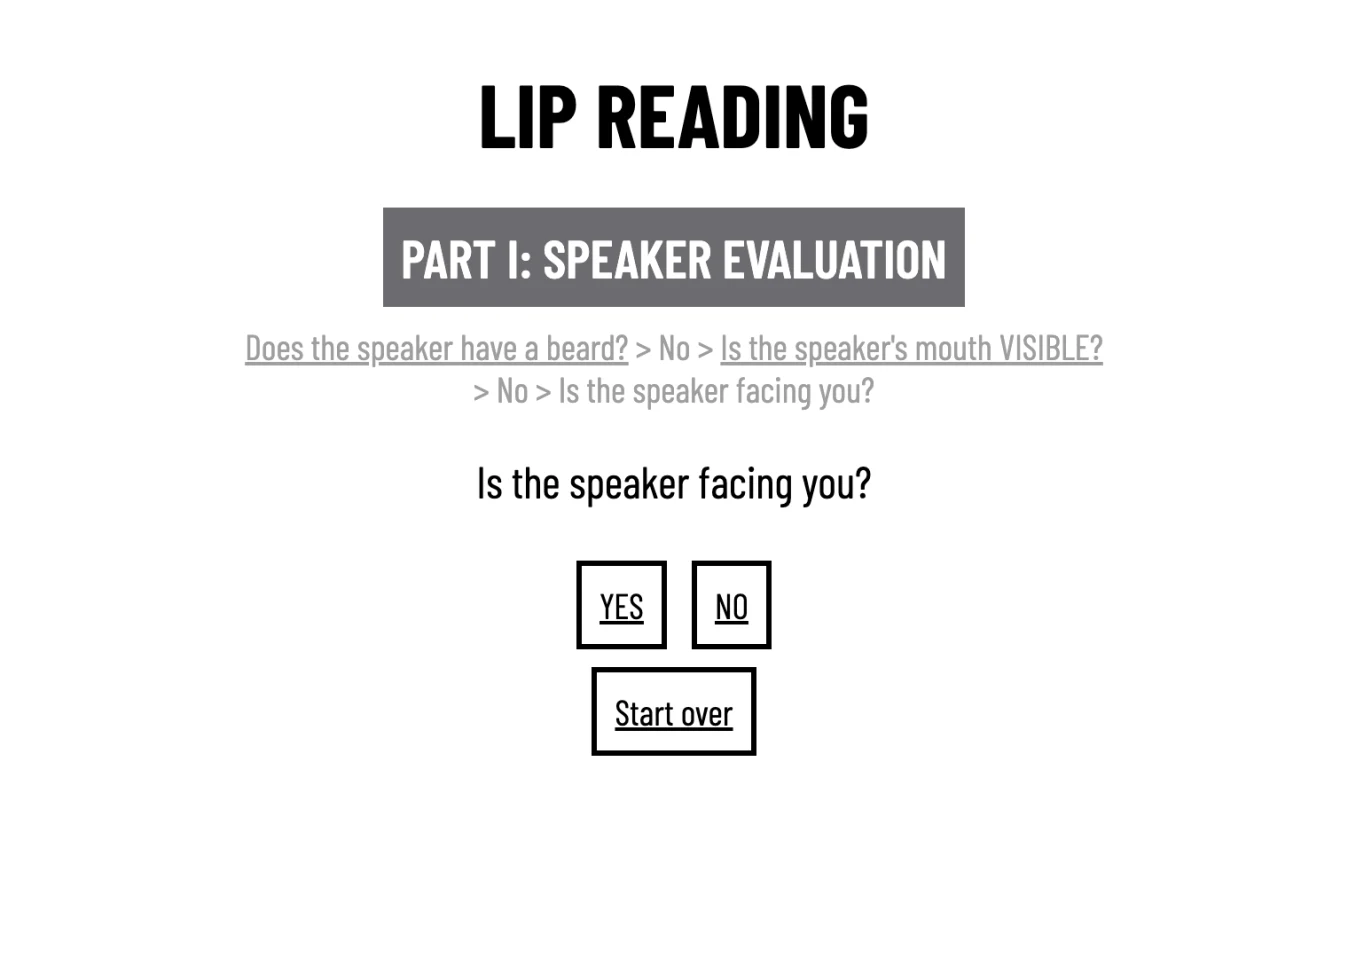
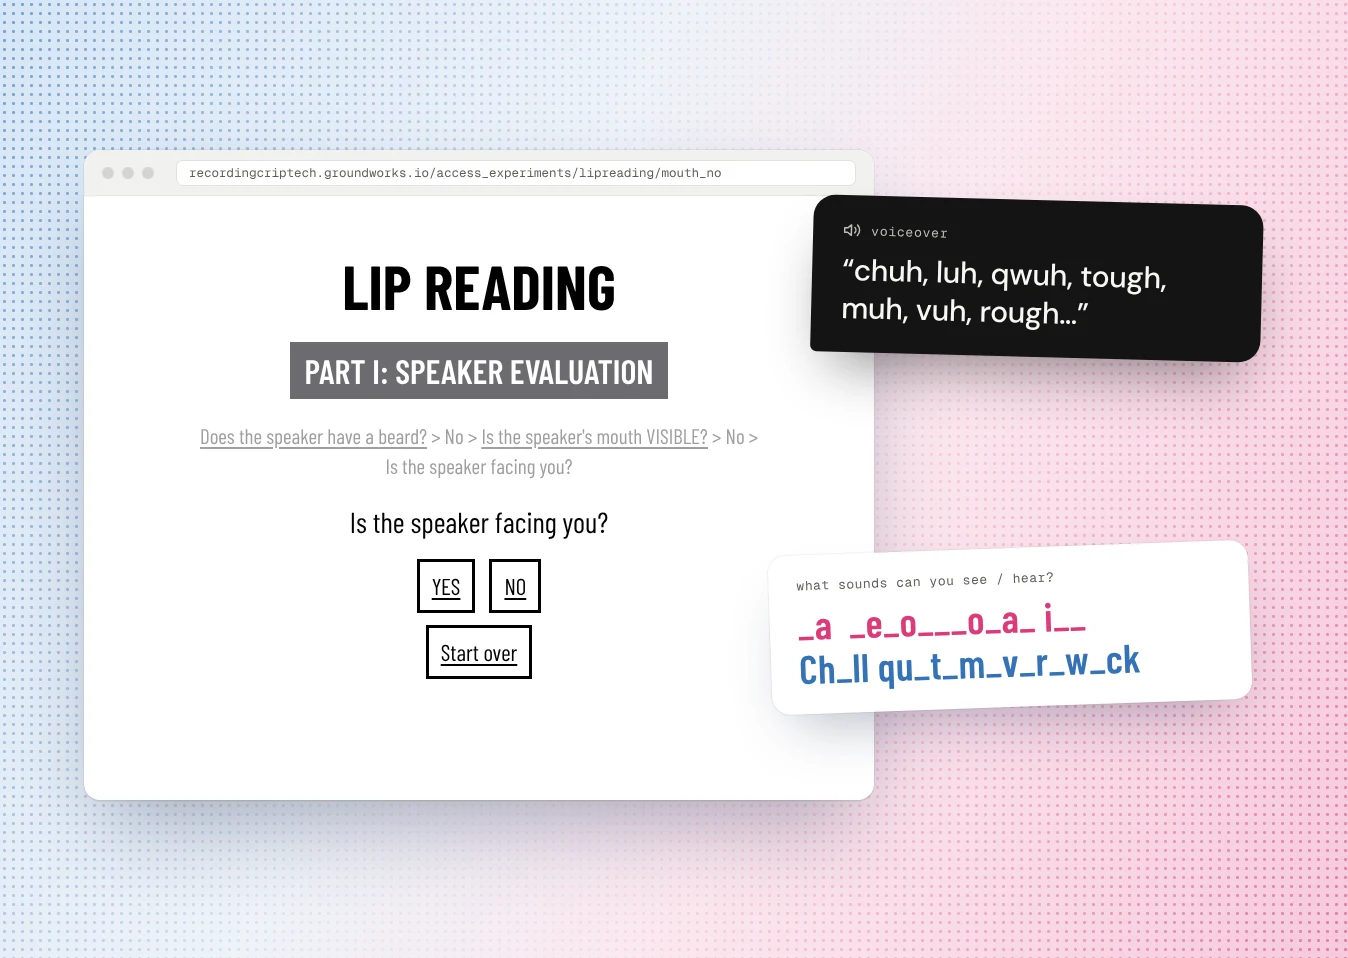
Bring the new graphics into the Lip Reading case study
Five diagrams and a composed cover: the 22-page map, the prototype form
against the shipped links, the breadcrumb in both parts, the four ways
of voicing a sound fragment, and the four audit findings measured.

Checking the figures against the archived build turned up one thing the
write-up had wrong. Start over is on 21 of the 22 pages, not all of
them: face_yes.html, the page offering to rotate the speaker or ask
nicely, has only its breadcrumb. The text and captions now say 21, and
the miss joins the audit section as a fifth finding.

Also worth recording, since the page count looks off against the
folder: the build holds 23 HTML files besides the abandoned form
prototype, but speaker_continue.html is unreachable — nothing links to
it, and face_yes.html goes to hand_no.html instead. So 22 playable
pages is right, and the map is right to leave it out.

diff --git a/lipreading.html b/lipreading.html
@@ -46,7 +46,7 @@
     <a class="back-link" href="index.html">← all work</a>
 
     <div class="cs-cover">
-      <img src="assets/lipreading/lipreading-cover.webp" alt="One page of the rebuilt flowchart: the title Lip Reading, a Part I: Speaker Evaluation banner, a breadcrumb of previous answers, the question Is the speaker facing you, and YES, NO and Start over buttons" width="1348" height="958" />
+      <img src="assets/lipreading/lipreading-cover.webp" alt="A page of the rebuilt Lip Reading flowchart in a browser, asking Is the speaker facing you with YES, NO and Start over, beside a VoiceOver speech bubble reading chuh, luh, qwuh, tough, muh, vuh, rough, and a card of the pink heard sounds and blue seen sounds" width="1348" height="958" />
     </div>
 
     <header class="cs-header">
@@ -98,11 +98,15 @@
     <section id="process">
       <h2>One poster, rebuilt as 22 linked pages</h2>
       <p>I gave every box on the poster its own page, and every answer its own link. Seven dated builds over four weeks, from the first pass on 13 February 2024 to the version handed off on 11 March.</p>
+      <img class="fig" src="assets/lipreading/lipreading-page-map.webp" alt="A map of all 22 pages. Part I branches from Does the speaker have a beard through questions about the mouth, facing, and a hand over the mouth. Six dead ends, such as You're out of luck and Oh well, over and out, are marked with a Go back link. Four pages send you to Part II, which runs from What sounds can you see and hear, through Does this make sense, to the punchline Shall we stop for a quick coffee and a sandwich. Start over appears on all but one page." loading="lazy" />
+      <p class="caption">Every box on the poster became a page. Dead ends get Go back; Start over is on all but one.</p>
       <div class="card">
         <span class="card-label">From a form to plain links</span>
         <p>My first prototype made each question a set of radio buttons with a Submit button and a JavaScript redirect. It worked, but it put a form between the reader and a question that only ever had two answers — and it depended on script to go anywhere.</p>
         <p>I replaced it with plain <code>&lt;a href&gt;</code> links styled as boxes. Links are focusable and announced by a screen reader with nothing else attached. The final build has no JavaScript in it at all.</p>
       </div>
+      <img class="fig" src="assets/lipreading/lipreading-form-to-links.webp" alt="Before and after. The prototype asks Does the speaker have a beard as a radio-button form with a Submit button and a JavaScript redirect; answering YES by keyboard takes tab, space, tab, enter. The shipped version uses two bordered links, YES and NO, with aria-describedby pointing at the question; answering takes tab, enter, and no script." loading="lazy" />
+      <p class="caption">The prototype form against the shipped links, and the keystrokes each one costs.</p>
       <p>The styling follows Ting's poster rather than my own taste: Barlow Condensed, centred, the part title reversed out of a gray banner, and each choice a box with a 3px black border.</p>
     </section>
 
@@ -119,13 +123,15 @@
         <li><strong>Part I collapses.</strong> Three different paths lead into Part II, so carrying the full Part I trail would make every Part II page start differently. Part II trails open with a single link, "Part I: Speaker Evaluation."</li>
         <li><strong>Two branches merge.</strong> The SEE and HEAR branches rejoin when the sounds get added together, so that trail shows both paths joined by a slash.</li>
       </ul>
+      <img class="fig" src="assets/lipreading/lipreading-breadcrumb.webp" alt="Two breadcrumbs from the build, annotated. In Part I, previous questions are underlined links back, each followed by the answer given, ending at the current question, Is the speaker facing you. In Part II, the trail opens with a single link for all of Part I, then shows What sounds can you SEE and What sounds can you HEAR joined by a slash, ending at Add hearing and seeing sounds." loading="lazy" />
+      <p class="caption">The trail in Part I, and the two compromises it makes in Part II.</p>
     </section>
 
     <section id="dead-ends">
       <h2>Every dead end gets an exit</h2>
       <p>The poster is full of jokes that stop you dead — "you're out of luck," and so on. On paper your eye just wanders back. In a browser, a dead end with no way out is a trap.</p>
       <ul>
-        <li><strong>Start over</strong> appears on all 22 pages, and returns to the first question.</li>
+        <li><strong>Start over</strong> appears on 21 of the 22 pages, and returns to the first question.</li>
         <li><strong>Go back</strong> appears only on the six dead ends, and returns to the question that sent you there.</li>
       </ul>
       <p>Ordinary question pages don't get a Go back, because the breadcrumb above them already links to every previous question. Adding one would mean two controls doing the same job on the same page.</p>
@@ -153,6 +159,8 @@
           <p>The fragments became images, and the alt text spelled them the way they sound. One clean announcement, and the spacing of the original is preserved as part of the picture.</p>
         </div>
       </div>
+      <img class="fig" src="assets/lipreading/lipreading-voiceover.webp" alt="The four approaches compared by markup and what VoiceOver says. Plain text is read as letters: C, H, L, L, Q, U. An aria-label on each fragment is read as chuh, group: ch. SSML phonemes are not supported in HTML5. An image with phonetic alt text is read as chuh, luh, qwuh, tough, muh, vuh, rough, and shipped." loading="lazy" />
+      <p class="caption">Same fragment, four markups, and what VoiceOver actually said.</p>
       <p>I tested the spellings in VoiceOver and chose whatever actually sounded right, which was not always the obvious transcription: <em>ch</em> became "chuh", <em>qu</em> became "qwuh", and <em>t</em> and <em>r</em> became "tough" and "rough" rather than "tuh" and "ruh".</p>
       <div class="fig-row">
         <div>
@@ -184,6 +192,8 @@
     <section id="audit">
       <h2>What I'd fix, looking back at my own code</h2>
       <p>This is an accessibility project, so it should be held to its own standard. Reading my 2024 build now, four things fall short:</p>
+      <img class="fig" src="assets/lipreading/lipreading-audit.webp" alt="Four audit findings. Focus: the YES box turns its text gray on focus, 2.7 to 1, failing 4.5 to 1; the fix inverts the box to white on black with a blue focus ring. Color: the blue seen sounds and pink heard sounds are distinct with typical vision but nearly identical under simulated protanopia, at 1.16 to 1 against each other. Titles and language appear on only 4 of 22 pages. The breadcrumb is a div of links and paragraphs instead of a nav with an ordered list." loading="lazy" />
+      <p class="caption">The four gaps, measured.</p>
       <div class="card">
         <span class="card-label">Focus fades instead of announcing itself</span>
         <p>Links turn gray on hover and focus, which lands at 2.7:1 against white — below the 4.5:1 minimum, and on the one state a keyboard user depends on. It should invert the box and add a visible focus ring.</p>
@@ -199,6 +209,10 @@
       <div class="card">
         <span class="card-label">The breadcrumb isn't marked up as one</span>
         <p>It behaves like a breadcrumb but it's a <code>&lt;div&gt;</code> of paragraphs and links, so a screen reader can't skip to it or announce what it is. It should be a <code>&lt;nav aria-label="Breadcrumb"&gt;</code> wrapping an ordered list.</p>
+      </div>
+      <div class="card">
+        <span class="card-label">One page missed its way out</span>
+        <p>Start over is on 21 of the 22 pages. The page that offers to rotate the speaker or ask them nicely has only its breadcrumb, so the one escape hatch I designed to be everywhere isn't quite everywhere. A rule only holds if it holds on the last page too.</p>
       </div>
     </section>
 

diff --git a/index.html b/index.html
@@ -132,7 +132,7 @@
       <article class="project">
         <div class="project-figure">
         <a class="project-media" href="lipreading.html">
-          <img src="assets/lipreading/lipreading-cover.webp" alt="A page of the rebuilt Lip Reading flowchart with a breadcrumb of previous answers and YES, NO and Start over buttons" loading="lazy" />
+          <img src="assets/lipreading/lipreading-cover.webp" alt="A page of the rebuilt Lip Reading flowchart in a browser beside a VoiceOver speech bubble and a card of pink and blue sound fragments" loading="lazy" />
         </a>
         </div>
         <div class="project-info">
